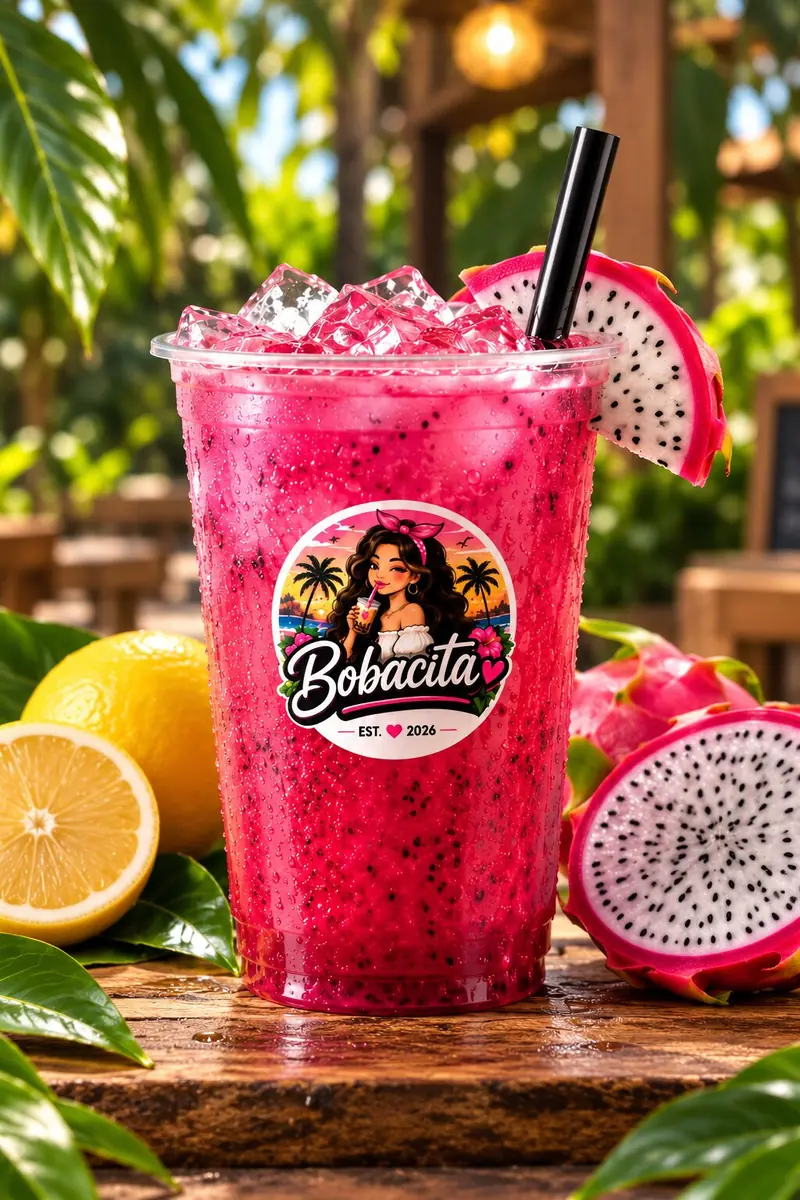
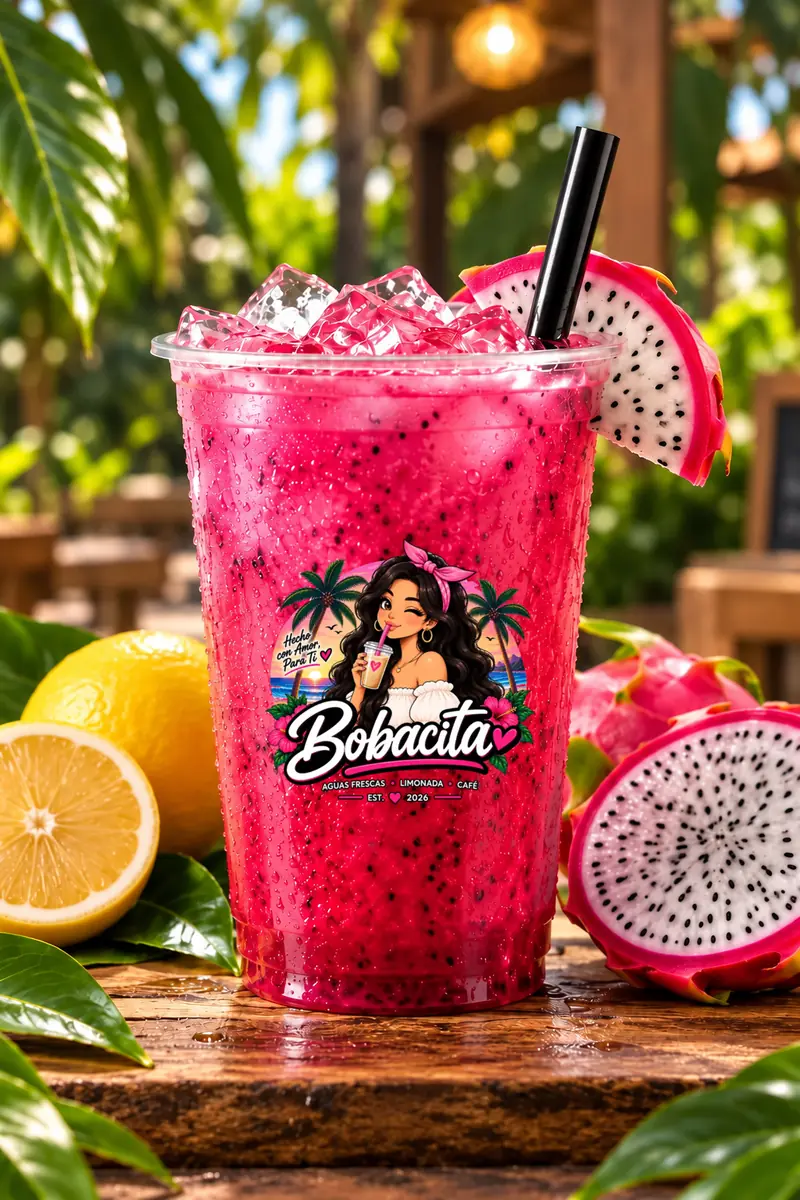
Apply transparent branding to featured drinks

diff --git a/script.js b/script.js
@@ -51,7 +51,7 @@ const translations = {
     blueberry_popping_es:"Popping Boba de Arándano", blueberry_details:"Perlas explosivas rellenas de jugo con un sabor fresco y frutal a arándano.",
     strawberry_popping:"Popping Boba de Fresa", strawberry_popping_en:"Strawberry Popping Boba", strawberry_boba_alt:"Popping boba de fresa",
     strawberry_details:"Perlas explosivas rellenas de jugo con un sabor dulce y frutal a fresa.", coffee_jelly_details:"Cubitos suaves de gelatina con sabor a café.",
-    tajin_note:"Tajín está disponible en combinaciones seleccionadas de limonada; no es un topping de boba.",
+    tajin_note:"Tajín o chamoy están disponibles en combinaciones seleccionadas de limonada; no son toppings de boba.",
     story_kicker:"NUESTRA HISTORIA", story_title:"De nuestra familia para la tuya.",
     story_p1:"Hace 7 años nuestra familia se mudó a Tijuana, México. Antes habíamos comenzado nuestro camino en el mundo del boba con una tienda en el sur de California, donde aprendimos a servir a nuestra comunidad y a desarrollar nuestra pasión por las bebidas.",
     story_p2:"Después de vender nuestro primer negocio, decidimos comenzar una nueva aventura: Bobacita. Nuestro sueño es combinar bebidas con influencia asiática con los sabores mexicanos que disfrutamos, y construir este proyecto junto a nuestros cinco hijos.",
@@ -114,7 +114,7 @@ const translations = {
     blueberry_popping_es:"Blueberry Popping Boba", blueberry_details:"Juice-filled popping pearls with a fresh, fruity blueberry flavor.",
     strawberry_popping:"Strawberry Popping Boba", strawberry_popping_en:"Popping Boba de Fresa", strawberry_boba_alt:"Strawberry popping boba",
     strawberry_details:"Juice-filled popping pearls with a sweet, fruity strawberry flavor.", coffee_jelly_details:"Soft coffee-flavored jelly cubes.",
-    tajin_note:"Tajín is available with selected lemonade combinations; it is not one of the five boba toppings.",
+    tajin_note:"Tajín or chamoy are available with selected lemonade combinations; they are not boba toppings.",
     story_kicker:"OUR STORY", story_title:"From our family to yours.",
     story_p1:"Seven years ago our family moved to Tijuana, Mexico. Before that, we began our boba journey with a shop in Southern California, where we learned to serve our community and build our passion for drinks.",
     story_p2:"After selling our first business, we decided to start a new adventure: Bobacita. Our dream is to combine Asian-inspired drinks with the Mexican flavors we enjoy, and to build this business together with our five children.",

diff --git a/index.html b/index.html
@@ -531,7 +531,7 @@ footer span,footer a{font-size:.8rem;color:#f4dbd1}
           <p data-i18n="coffee_jelly_details">Cubitos suaves de gelatina con sabor a café.</p>
         </details>
       </div>
-      <p class="tajin-note" data-i18n="tajin_note">Tajín está disponible en combinaciones seleccionadas de limonada; no es un topping de boba.</p>
+      <p class="tajin-note" data-i18n="tajin_note">Tajín o chamoy están disponibles en combinaciones seleccionadas de limonada; no son toppings de boba.</p>
     </section>
 
     <section class="story-section" id="historia">
